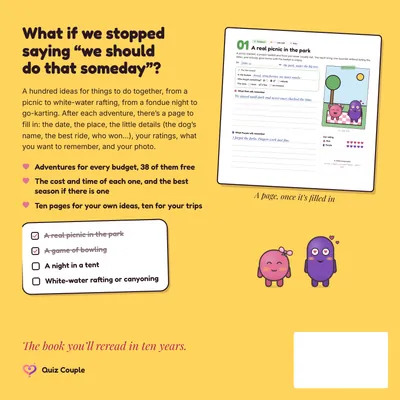
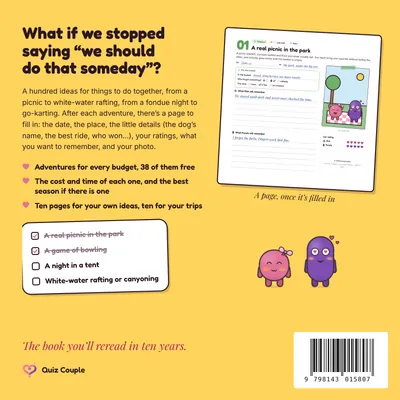
Livre : l'ISBN anglais dans les données structurées et sur le dos
La PR 833 a donné l'ISBN de l'édition anglaise, 9798143015807, attribué par
KDP le 15 novembre 2026. Il est maintenant dans LIVRE.en.isbn, si bien que
la page anglaise le donne dans ses données structurées (isbn et gtin13).
Le dos du livre à feuilleter porte son code EAN-13 dans la case du
code-barres, comme sur l'exemplaire imprimé.

Claude-Session: https://claude.ai/code/session_01QkFQB3TndqpJHEk1PYa3Hs

Changed region(s): [[0.75, 0.84, 0.96, 0.96]]

diff --git a/static-site/build/config.js b/static-site/build/config.js
@@ -756,12 +756,12 @@ export const LIVRE = {
   // programme américain d'Amazon est un compte à part de celui d'amazon.fr.
   // Quand Thomas donnera un lien de Partenaire amazon.com, il prendra la place
   // de lien, avec affilie: true et la mention en anglais (fin.affiliation).
-  // L'ISBN de l'édition anglaise n'est pas encore connu ici : sans lui, les
-  // données structurées n'en donnent pas.
   en: {
     lien: 'https://www.amazon.com/dp/B0HRSXQMPP',
     fiche: 'https://www.amazon.com/dp/B0HRSXQMPP',
     asin: 'B0HRSXQMPP',
+    // Attribué par KDP le 15 novembre 2026 (livre/formats/aventures/en.mjs).
+    isbn: '9798143015807',
     prix: '$19.99',
     prixNombre: '19.99',
     devise: 'USD',
